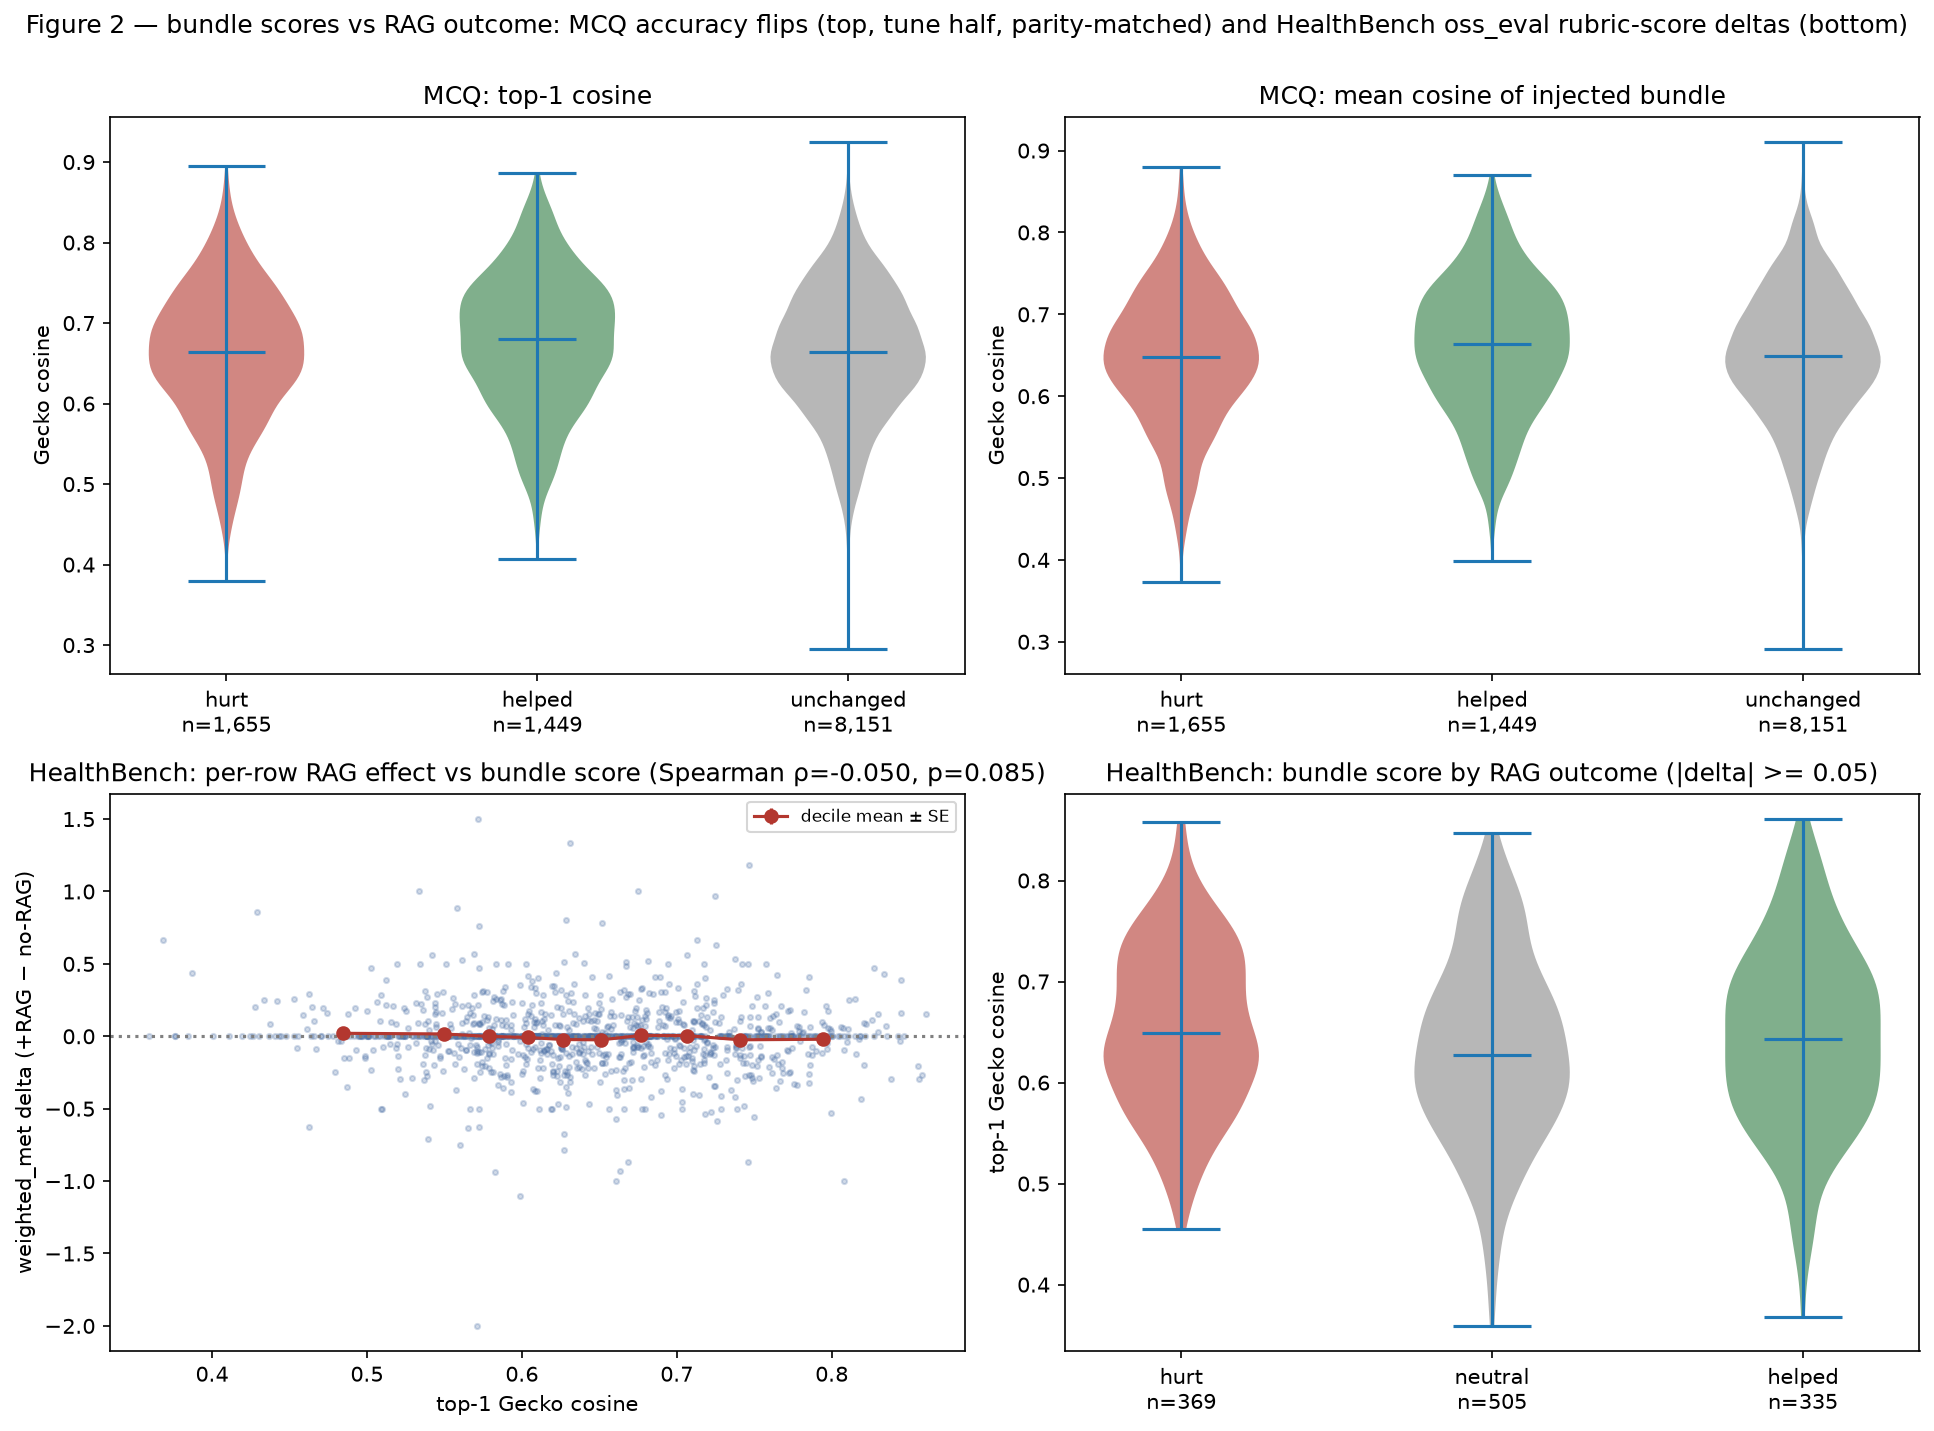
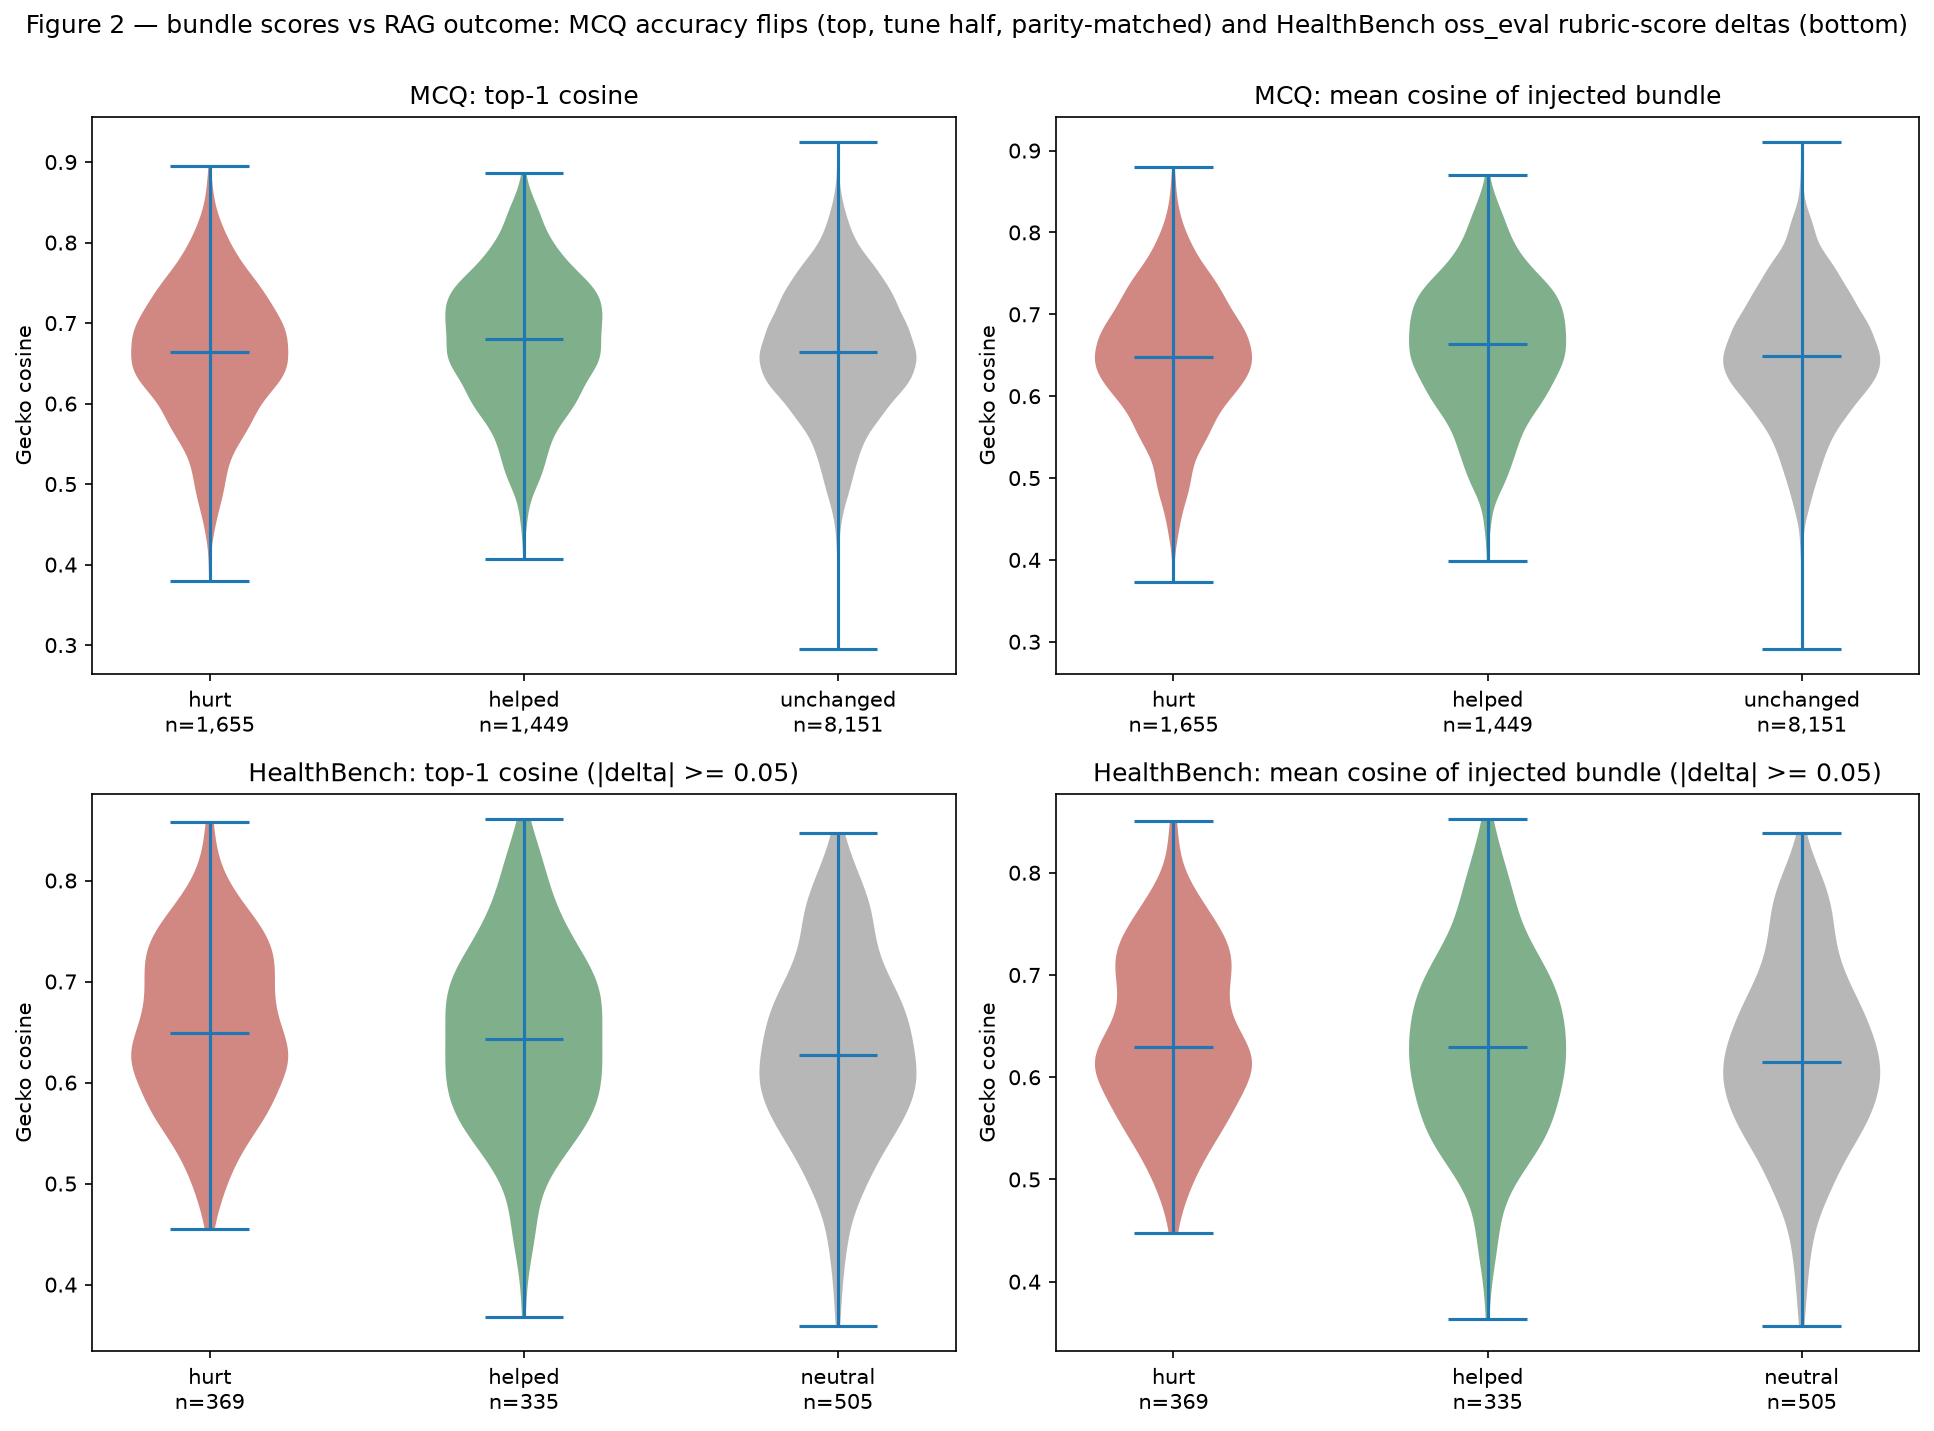
fig(r1): make Figure 2 rows parallel — HealthBench row now top-1/mean violins matching the MCQ row
Spearman stat moves to the metrics JSON; the figure reads as a 2x2 grid of
the same two views over both outcome surfaces.

diff --git a/retrieval_eval/plot_threshold_signal.py b/retrieval_eval/plot_threshold_signal.py
@@ -205,44 +205,34 @@ def _fig2_healthbench_row(table_b2: list[dict], axes, plt) -> dict:
     from scipy.stats import mannwhitneyu, spearmanr
 
     rows = [r for r in table_b2 if r["cosines"]]
-    top1 = np.array([r["cosines"][0] for r in rows])
+    top1_all = np.array([r["cosines"][0] for r in rows])
     delta = np.array([r["delta"] for r in rows])
-
-    axes[0].scatter(top1, delta, s=6, alpha=0.25, color="#4a6fa5")
-    # Binned means over cosine deciles, with standard-error bars.
-    edges = np.quantile(top1, np.linspace(0, 1, 11))
-    mids, means, ses = [], [], []
-    for lo, hi in zip(edges[:-1], edges[1:]):
-        m = (top1 >= lo) & (top1 <= hi)
-        if m.sum():
-            mids.append(top1[m].mean())
-            means.append(delta[m].mean())
-            ses.append(delta[m].std() / np.sqrt(m.sum()))
-    axes[0].errorbar(mids, means, yerr=ses, fmt="o-", color="#b3372f",
-                     label="decile mean ± SE")
-    axes[0].axhline(0, ls=":", color="gray")
-    rho, pval = spearmanr(top1, delta)
-    axes[0].set_xlabel("top-1 Gecko cosine")
-    axes[0].set_ylabel("weighted_met delta (+RAG − no-RAG)")
-    axes[0].set_title(f"HealthBench: per-row RAG effect vs bundle score "
-                      f"(Spearman ρ={rho:.3f}, p={pval:.2g})")
-    axes[0].legend(fontsize=8)
+    rho, pval = spearmanr(top1_all, delta)
 
     groups = {"hurt": [r for r in rows if r["delta"] <= -NEUTRAL_DEADBAND],
               "neutral": [r for r in rows if abs(r["delta"]) < NEUTRAL_DEADBAND],
               "helped": [r for r in rows if r["delta"] >= NEUTRAL_DEADBAND]}
-    colors = {"hurt": "#b3372f", "neutral": "#888888", "helped": "#2c7a3f"}
-    order = ["hurt", "neutral", "helped"]
-    data = [np.array([r["cosines"][0] for r in groups[o]]) for o in order]
-    parts = axes[1].violinplot(data, showmedians=True)
-    for body, o in zip(parts["bodies"], order):
-        body.set_facecolor(colors[o])
-        body.set_alpha(0.6)
-    axes[1].set_xticks([1, 2, 3])
-    axes[1].set_xticklabels([f"{o}\nn={len(groups[o]):,}" for o in order])
-    axes[1].set_ylabel("top-1 Gecko cosine")
-    axes[1].set_title(
-        f"HealthBench: bundle score by RAG outcome (|delta| >= {NEUTRAL_DEADBAND})")
+    colors = {"hurt": "#b3372f", "helped": "#2c7a3f", "neutral": "#888888"}
+    order = ["hurt", "helped", "neutral"]
+
+    def top1(rows_):
+        return np.array([r["cosines"][0] for r in rows_])
+
+    def mean3(rows_):
+        return np.array([float(np.mean(r["cosines"])) for r in rows_])
+
+    for ax, fn, title in (
+            (axes[0], top1, "HealthBench: top-1 cosine"),
+            (axes[1], mean3, "HealthBench: mean cosine of injected bundle")):
+        data = [fn(groups[o]) for o in order]
+        parts = ax.violinplot(data, showmedians=True)
+        for body, o in zip(parts["bodies"], order):
+            body.set_facecolor(colors[o])
+            body.set_alpha(0.6)
+        ax.set_xticks([1, 2, 3])
+        ax.set_xticklabels([f"{o}\nn={len(groups[o]):,}" for o in order])
+        ax.set_ylabel("Gecko cosine")
+        ax.set_title(f"{title} (|delta| >= {NEUTRAL_DEADBAND})")
 
     metrics = {
         "n_rows": len(rows),
